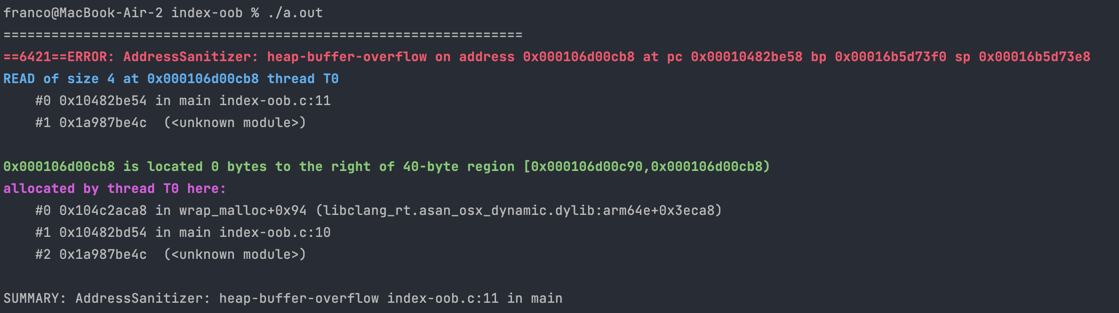
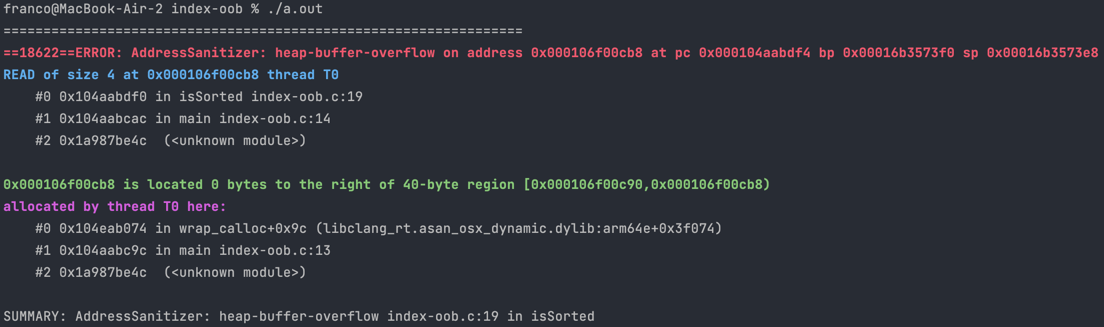
Add second index out of bounds example

diff --git a/glossary/heap-buffer-overflow/index-oob/index-oob.c b/glossary/heap-buffer-overflow/index-oob/index-oob.c
@@ -1,15 +1,24 @@
-// Accesses array out of bounds
-// Created for COMP2521 sanitiser guide
+// Accesses an array out of bounds
+// Written for COMP2521 sanitiser guide
 
+#include <stdbool.h>
 #include <stdio.h>
 #include <stdlib.h>
 
 #define N 10
 
-int main(void) {
-    int *array = malloc(N * sizeof(int));
-    printf("%d\n", array[N]);
+bool isSorted(int *arr, int size);
 
-    free(array);
-    return 0;
+int main(void) {
+    int *zeroes = calloc(N, sizeof(int));
+    printf("Is sorted: %s", isSorted(zeroes, N) ? "yes" : "no");
+}
+
+bool isSorted(int *arr, int size) {
+    for (int i = 0; i < size; i++) {
+        if (arr[i] > arr[i + 1]) {
+            return false;
+        }
+    }
+    return true;
 }

diff --git a/glossary/heap-buffer-overflow/index-oob-simple/index-oob.c b/glossary/heap-buffer-overflow/index-oob-simple/index-oob.c
@@ -1,0 +1,15 @@
+// Accesses array out of bounds
+// Created for COMP2521 sanitiser guide
+
+#include <stdio.h>
+#include <stdlib.h>
+
+#define N 10
+
+int main(void) {
+    int *array = malloc(N * sizeof(int));
+    printf("%d\n", array[N]);
+
+    free(array);
+    return 0;
+}

diff --git a/glossary/heap-buffer-overflow/index-oob/README.md b/glossary/heap-buffer-overflow/index-oob/README.md
@@ -7,23 +7,36 @@
 Here is the code for this example ([source](index-oob.c)):
 
 ```c
-// Accesses array out of bounds
-// Created for COMP2521 sanitiser guide
+// Accesses an array out of bounds
+// Written for COMP2521 sanitiser guide
 
+#include <stdbool.h>
 #include <stdio.h>
 #include <stdlib.h>
 
 #define N 10
 
-int main(void) {
-    int *array = malloc(N * sizeof(int));
-    printf("%d\n", array[N]);
+bool isSorted(int *arr, int size);
 
-    free(array);
-    return 0;
+int main(void) {
+    int *zeroes = calloc(N, sizeof(int));
+    printf("Is sorted: %s", isSorted(zeroes, N) ? "yes" : "no");
+}
+
+bool isSorted(int *arr, int size) {
+    for (int i = 0; i < size; i++) {
+        if (arr[i] > arr[i + 1]) {
+            return false;
+        }
+    }
+    return true;
 }
 
 ```
+
+This program `calloc()`s an array of zeroes of size 10, then calls the `isSorted()` function to determine whether it is sorted and prints the result.
+
+`isSorted()` loops through every pair in the array and checks if there is a pair where the first number is greater than the second number. If so, then the array is not sorted, but if no pairs meet that condition then the array is sorted.
 
 ## The Error
 
@@ -31,17 +44,16 @@ Here is the error message:
 
 ![error message](error.png)
 
-- The first thing we notice is that the error occurs on line 11, which is the line `printf("%d\n", array[N]);`.
-- This is a READ error, so it is likely that the error comes from reading from `array`.
-- The second stack trace confirms this, since it says the incorrectly accessed memory was allocated on line 10, which is `int *array = malloc(N * sizeof(int));`.
-- We've tried to access 0 bytes to the right of `array`, so the index we've used is too large.
+- The first thing we notice is that the error occurs on line 19 in `isSorted()`, which is the line `if (arr[i] > arr[i + 1]) {`. This means one of these accesses of `arr` is incorrect.
+- `isSorted()` was called on line 14 of `main()`, which is where we call it on `zeroes`.
+- We've tried to access 0 bytes to the right of `zeroes` - `zeroes` is of size 10 so this means we tried to access index 10.
 
 ## The Problem
 
-This code allocates an array of size 10, and then accesses index 10 of this array. This index is out of bounds for the array, since the valid indexes for an array of size 10 are 0..9, and so we get a `heap-buffer-overflow`.
+For some reason, either `arr[i]` or `arr[i + 1]` is trying to access index 10. Since `i` loops until `i < size`, we know that `i` can be at most 9. So `arr[i]` will always be fine, but if `i = 9` then `arr[i + 1]` will access `arr[10]` which is out of bounds.
 
 ## The Fix
 
-The most simple fix is to put an if statement around the error line to check if the index we are using is out of bounds or not, and prevent the line from running if it is.
+We need to fix our loop condition so that `i < size - 1`. This makes sure that `i + 1 < size` so `arr[i + 1]` will not cause issues.
 
-However, sometimes an index out of bounds suggests there is some logic error somewhere else in determining what index to use. Putting an if statement will prevent the error, but doesn't fix the root of the problem.
+At a higher level, remember the function considers each pair in the array (i.e. `arr[0]` and `arr[1]`, `arr[1]` and `arr[2]` etc). The loop counter `i` represents the index of the first item in the pair, but there is no pair starting at `size - 1` so we don't need to loop until there.

diff --git a/glossary/heap-buffer-overflow/index-oob-simple/README.md b/glossary/heap-buffer-overflow/index-oob-simple/README.md
@@ -1,0 +1,47 @@
+[Back to heap-buffer-overflow](..)
+
+# Index Out of Bounds (Simple)
+
+## The Code
+
+Here is the code for this example ([source](index-oob.c)):
+
+```c
+// Accesses array out of bounds
+// Created for COMP2521 sanitiser guide
+
+#include <stdio.h>
+#include <stdlib.h>
+
+#define N 10
+
+int main(void) {
+    int *array = malloc(N * sizeof(int));
+    printf("%d\n", array[N]);
+
+    free(array);
+    return 0;
+}
+
+```
+
+## The Error
+
+Here is the error message:
+
+![error message](error.png)
+
+- The first thing we notice is that the error occurs on line 11, which is the line `printf("%d\n", array[N]);`.
+- This is a READ error, so it is likely that the error comes from reading from `array`.
+- The second stack trace confirms this, since it says the incorrectly accessed memory was allocated on line 10, which is `int *array = malloc(N * sizeof(int));`.
+- We've tried to access 0 bytes to the right of `array`, so the index we've used is too large.
+
+## The Problem
+
+This code allocates an array of size 10, and then accesses index 10 of this array. This index is out of bounds for the array, since the valid indexes for an array of size 10 are 0..9, and so we get a `heap-buffer-overflow`.
+
+## The Fix
+
+The most simple fix is to put an if statement around the error line to check if the index we are using is out of bounds or not, and prevent the line from running if it is.
+
+However, sometimes an index out of bounds suggests there is some logic error somewhere else in determining what index to use. Putting an if statement will prevent the error, but doesn't fix the root of the problem.

diff --git a/glossary/heap-buffer-overflow/README.md b/glossary/heap-buffer-overflow/README.md
@@ -11,7 +11,7 @@ Common causes include accessing an index out of bounds of a dynamically allocate
 
 This is a typical `heap-buffer-overflow` message:
 
-![img.png](index-oob/error.png)
+![img.png](index-oob-simple/error.png)
 
 Here is the useful information you can get from this error message:
 
@@ -49,5 +49,6 @@ This might be useful if you want to double-check the line where you allocated th
 
 ## Examples
 
+- [Index Out of Bounds (Simple)](index-oob-simple)
 - [Index Out of Bounds](index-oob)
 - [Insufficient Memory Allocation](insufficient-allocation)

diff --git a/glossary/README.md b/glossary/README.md
@@ -5,9 +5,7 @@
 Click the links below to find out what each error means and how you can debug it:
 
 - [heap-buffer-overflow](heap-buffer-overflow)
-- heap-use-after-free
-- attempting double-free
-- signed integer overflow
 - SEGV on unknown address
+- heap-use-after-free
 - use-of-uninitialized-value
 - stack-buffer-overflow
